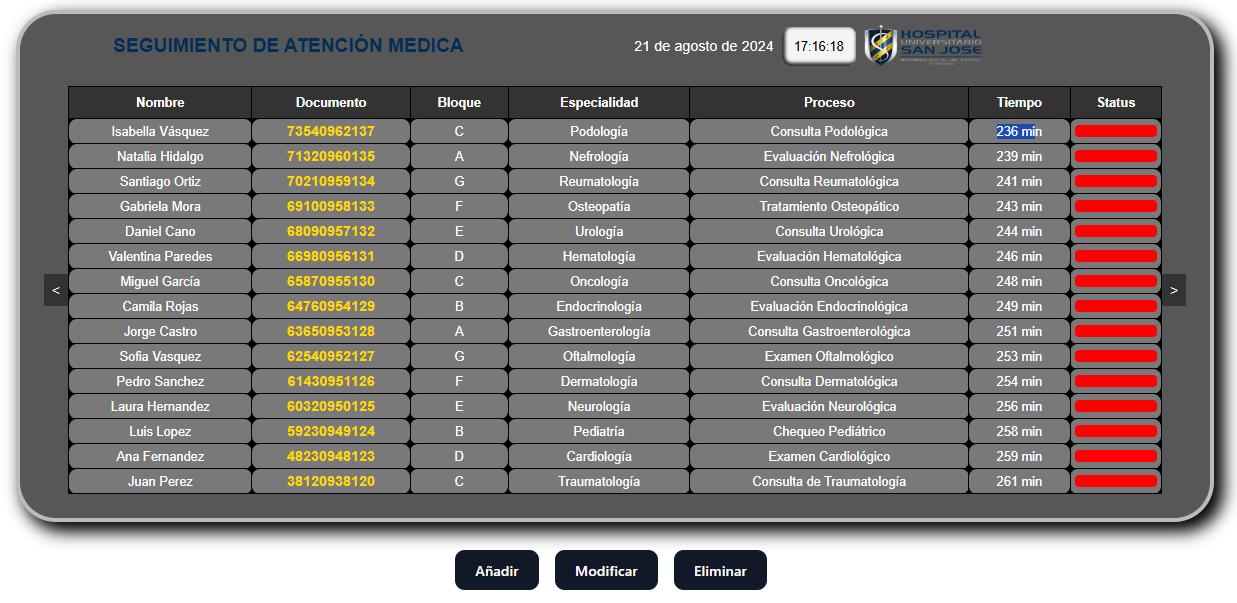
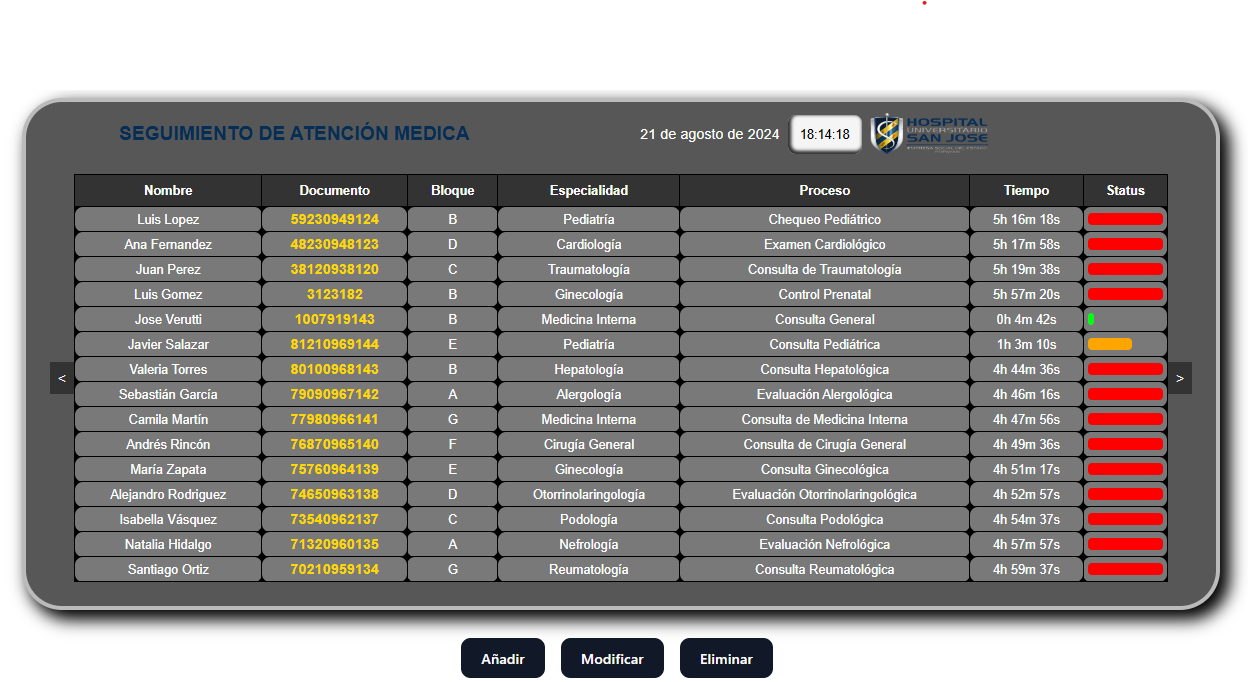
Modificacion hora y status

diff --git a/mi-proyecto/src/components/tabla.jsx b/mi-proyecto/src/components/tabla.jsx
@@ -1,7 +1,7 @@
 import React, { useState, useEffect } from 'react';
 import './tabla.css'; // Asegúrate de que este archivo contenga los estilos deseados
 
-const Tabla = ({ popUpEnable,popUpEnable2,popUpEnable3 ,currentDate }) => {
+const Tabla = ({ popUpEnable, popUpEnable2, popUpEnable3, currentDate }) => {
   const [datos, setDatos] = useState([]);
   const [loading, setLoading] = useState(true);
   const [startIndex, setStartIndex] = useState(0);
@@ -63,6 +63,28 @@ const Tabla = ({ popUpEnable,popUpEnable2,popUpEnable3 ,currentDate }) => {
     });
   };
 
+  const getStatusColor = (tiempo) => {
+    const elapsedMillis = currentDate.getTime() - tiempo;
+    const elapsedSeconds = Math.floor(elapsedMillis / 1000);
+    const hours = Math.floor(elapsedSeconds / 3600);
+    const minutes = Math.floor((elapsedSeconds % 3600) / 60);
+    const seconds = elapsedSeconds % 60;
+
+    const formattedTime = `${hours}h ${minutes}m ${seconds}s`;
+
+    return (
+      elapsedMillis < 10 * 60000 ? "verde1" :
+      elapsedMillis < 20 * 60000 ? "verde2" :
+      elapsedMillis < 30 * 60000 ? "verde3" :
+      elapsedMillis < 40 * 60000 ? "amarillo1" :
+      elapsedMillis < 50 * 60000 ? "amarillo2" :
+      elapsedMillis < 60 * 60000 ? "amarillo3" :
+      elapsedMillis < 70 * 60000 ? "naranja1" :
+      elapsedMillis < 80 * 60000 ? "naranja2" :
+      elapsedMillis < 90 * 60000 ? "naranja3" : "rojo"
+    );
+  };
+
   return (
     <div className="table-container">
       <button className="nav-button" onClick={handlePrev}>{"<"}</button>
@@ -86,14 +108,20 @@ const Tabla = ({ popUpEnable,popUpEnable2,popUpEnable3 ,currentDate }) => {
               <td>{item.bloque}</td>
               <td>{item.especialidad}</td>
               <td>{item.proceso}</td>
-              <td>{Math.floor((currentDate.getTime() - item.tiempo) / 60000)} min</td>
+              <td>
+                {(() => {
+                  const elapsedMillis = currentDate.getTime() - item.tiempo;
+                  const elapsedSeconds = Math.floor(elapsedMillis / 1000);
+                  const hours = Math.floor(elapsedSeconds / 3600);
+                  const minutes = Math.floor((elapsedSeconds % 3600) / 60);
+                  const seconds = elapsedSeconds % 60;
+
+                  return `${hours}h ${minutes}m ${seconds}s`;
+                })()}
+              </td>
               <td>
                 <div
-                  className={
-                    (Math.floor((currentDate.getTime() - item.tiempo) / 60000) < 30) ? "verde" :
-                    (Math.floor((currentDate.getTime() - item.tiempo) / 60000) < 60) ? "amarillo" :
-                    (Math.floor((currentDate.getTime() - item.tiempo) / 60000) < 90) ? "naranja" : "rojo"
-                  }
+                  className={getStatusColor(item.tiempo)}
                 ></div>
               </td>
             </tr>

diff --git a/mi-proyecto/src/components/tabla.css b/mi-proyecto/src/components/tabla.css
@@ -43,42 +43,83 @@
   }
 
   .celdaDocumento {
-    position: relative; /* Posicionamiento relativo para que el pseudo-elemento se coloque correctamente */
-    background-color: #808080; /* Color de fondo gris */
-    color: #FFD700 !important; /* Color del texto en dorado */
-    font-family: 'Arial', sans-serif; /* Fuente simple y legible */
-    font-size: 18px; /* Tamaño de fuente */
-    font-weight: bold; /* Negrita para el texto */
-    text-align: center; /* Centrar el texto */
-    padding: 10px; /* Espaciado interno */
-    border-radius: 5px; /* Bordes redondeados */
+    position: relative; 
+    background-color: #808080; 
+    color: #FFD700 !important; 
+    font-family: 'Arial', sans-serif; 
+    font-size: 18px; 
+    font-weight: bold; 
+    text-align: center; 
+    padding: 10px; 
+    border-radius: 5px; 
 }
 
 
-.verde {
+.verde1 {
   background-color: rgb(0, 255, 21) !important;
-  width: 25%;
+  width: calc((25% / 3) * 1); 
   height: 15px;
   border-radius: 5px;
 }
 
-.amarillo {
-  background-color: rgb(255, 255, 0)!important;
+.verde2 {
+  background-color: rgb(0, 255, 21) !important;
+  width: calc((25% / 3) * 2); 
+  height: 15px;
+  border-radius: 5px;
+}
+
+.verde3 {
+  background-color: rgb(0, 255, 21) !important;
+  width: 25%; 
+  height: 15px;
+  border-radius: 5px;
+}
+
+.amarillo1 {
+  background-color: rgb(255, 255, 0) !important;
+  width: calc(25% + ((25% / 3) * 1));
+  height: 15px;
+  border-radius: 5px;
+}
+
+.amarillo2 {
+  background-color: rgb(255, 255, 0) !important;
+  width: calc(25% + ((25% / 3) * 2));
+  height: 15px;
+  border-radius: 5px;
+}
+
+.amarillo3 {
+  background-color: rgb(255, 255, 0) !important;
   width: 50%; 
   height: 15px;
   border-radius: 5px;
 }
 
-.naranja {
-  background-color: rgb(255, 165, 0)!important;
-  width: 75%; 
+.naranja1 {
+  background-color: rgb(255, 165, 0) !important;
+  width: calc(50% + ((25% / 3) * 1)); 
   height: 15px;
   border-radius: 5px;
 }
 
+.naranja2 {
+  background-color: rgb(255, 165, 0) !important;
+  width: calc(50% + ((25% / 3) * 2)); 
+  height: 15px;
+  border-radius: 5px;
+}
+
+.naranja3 {
+  background-color: rgb(255, 165, 0) !important;
+  width: 75%;
+  height: 15px;
+  border-radius: 5px;
+}
 
 .rojo {
-  background-color: rgb(255, 0, 0)!important; 
+  background-color: rgb(255, 0, 0) !important; 
   width: 100%;
   height: 15px;
   border-radius: 5px;
